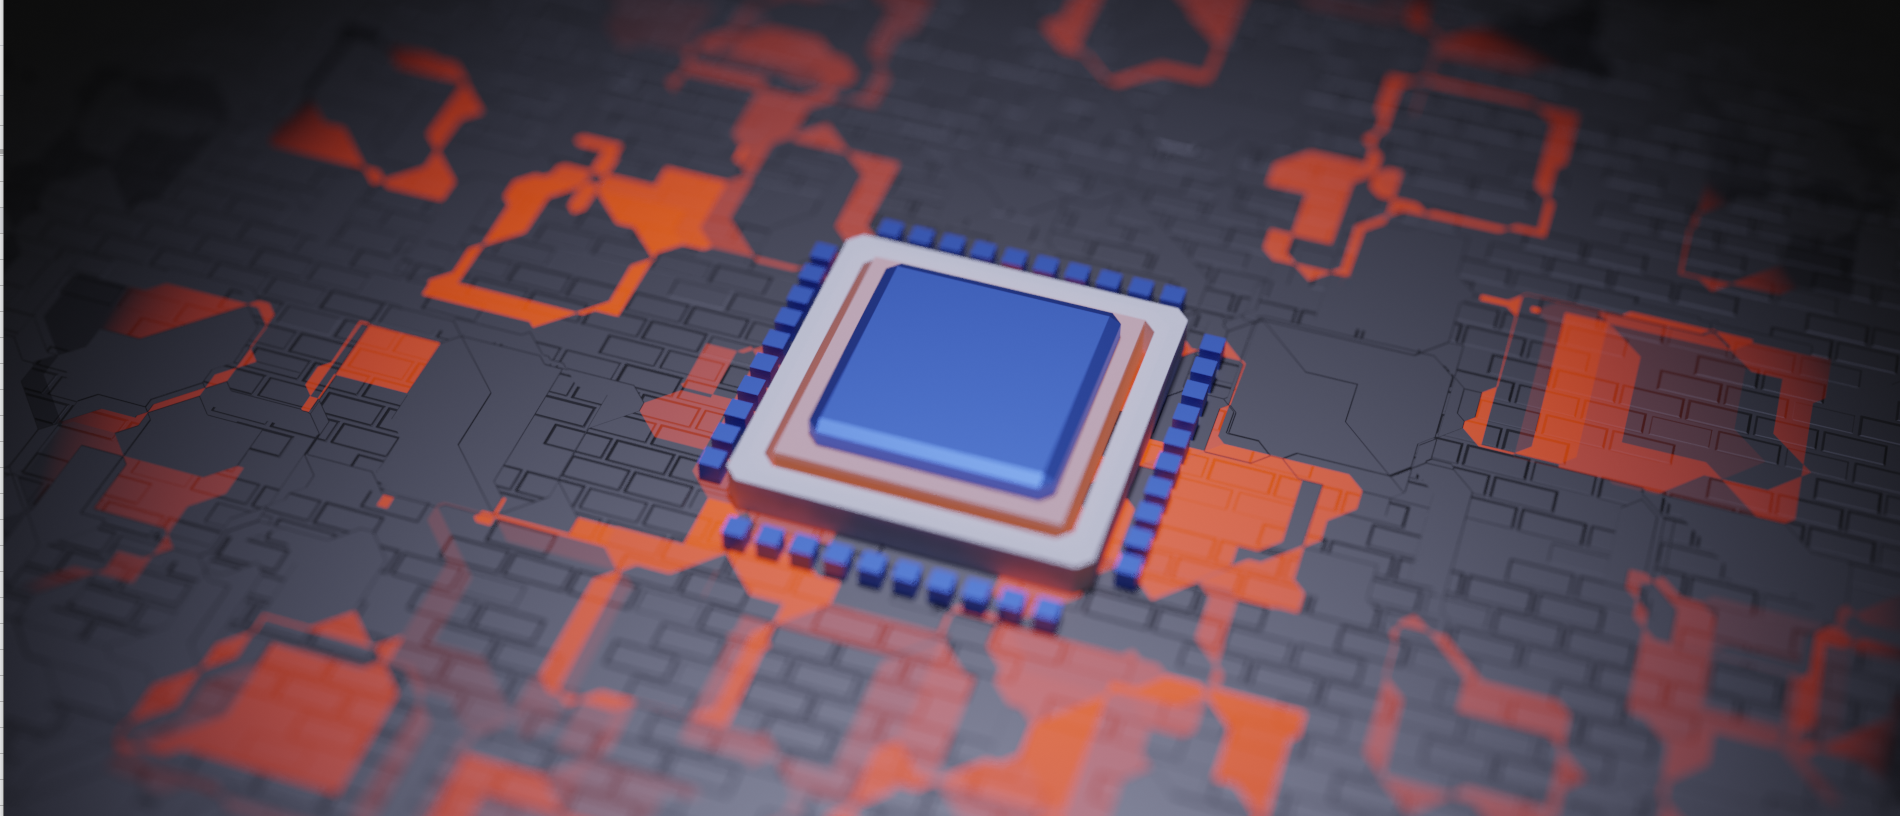
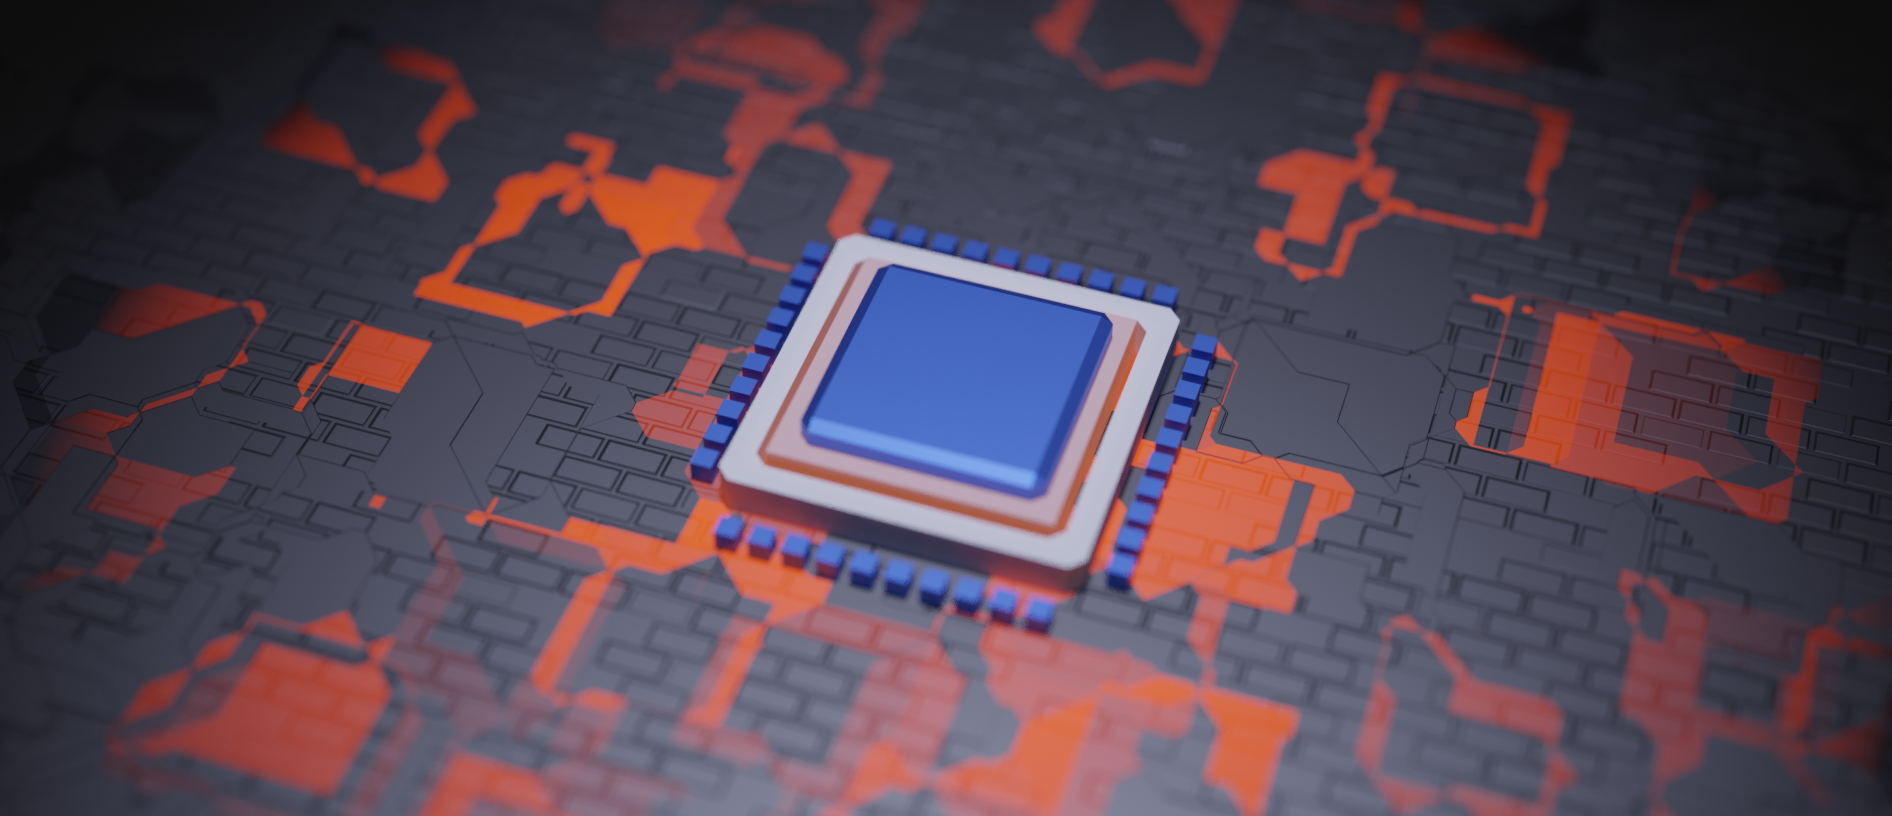
added pause button, more art

diff --git a/assets/main.js b/assets/main.js
@@ -1,25 +1,81 @@
 var style = getComputedStyle(document.body)
-var interacted = false
+var playing = false
+var firstclick = false
+
+function audio() {
+    if (playing === false) {
+        document.getElementById("audio").play();
+        playing = true;
+    }
+    else {
+        document.getElementById("audio").pause();
+        playing = false;
+    }
+}
 
 buttontext = document.getElementById("play-text")
+buttondiv = document.getElementById("play-div")
+
+async function wait(time) {
+    // await setTimeout(() => {}, time * 1000)
+    await new Promise(resolve => setTimeout(resolve, time * 1000))
+}
+async function play() {
+    audio()
+    if (firstclick === false) {
+        buttontext.classList.add("played")
+        button.classList.add("firstclick")
+        firstclick = true
+        await wait(1)
+    }
+    button = document.getElementById("play-button")
+    img = document.createElement("img");
+    img.id = "pause-button"
+    img.style.width = "64px"
+    img.style.height = "54px"
+    img.style["margin-top"] = "-30px"
+    img.src = "assets/media/pause.jpg"
+    img.addEventListener("click", function() {
+        pause()
+    })
+    button.classList.add("played")
+    // await wait(1)
+    img.classList.add("start")
+    buttondiv.appendChild(img)
+    buttondiv.removeChild(button)
+}
+
+async function pause() {
+    audio()
+    var button = document.getElementById("pause-button")
+    img = document.createElement("img");
+    img.id = "play-button"
+    img.style.width = "64px"
+    img.style.height = "64px"
+    img.style["margin-top"] = "-30px"
+    img.src = "assets/media/play.png"
+    img.addEventListener("click", function() {
+        play()
+    })
+    button.classList.add("played")
+    // await wait(1)
+    img.classList.add("start")
+    buttondiv.appendChild(img)
+    buttondiv.removeChild(button)
+}
 button = document.getElementById("play-button")
 button.addEventListener('click', function() {
-    if (interacted === false) {
-        document.getElementById("audio").play();
-        interacted = true;
-    }
-    buttontext.classList.add("played")
-    button.classList.add("played")
+    button.classList.add("firstclick")
+    play()
 })
 
 document.addEventListener("scroll", function(){
-    console.log(interacted)
     var scrollTop = document.documentElement.scrollTop
     var torus = document.getElementById("torus")
     var water = document.getElementById("water")
     var float = document.getElementById("float")
     var explode = document.getElementById("explode")
-    // console.log(scrollTop)
+    console.log(scrollTop)
     console.log(explode.style.opacity)
     console.log(torus.style.opacity)
     console.log(water.style.opacity)

diff --git a/art.html b/art.html
@@ -27,7 +27,9 @@
         <div id='subheader'>A portfolio of art I've worked on and created over the years.</div>
         <div id='attribution'>James Lian</div>
         <div id="play-text">Play Music:</div>
-        <img id="play-button" width='64px' height='64px' src="assets/media/play.png">
+        <div id="play-div">
+            <img id="play-button" width='64px' height='64px' src="assets/media/play.png">
+        </div>
         <img id="down-arrow" width='64px' height='64px' src="assets/media/down-arrow.png">
     </div>
     <div id="car-section">
@@ -49,8 +51,10 @@
         <img class="img-full" class="misc" src="assets/art/sci-fi enviro final.png" width=1200px height=675px>
         <img class="img-full" class="misc" src="assets/art/mountains.PNG" width=1200px height=714px>
         <img class="img-full" class="misc" src="assets/art/ball_and_tri.png" width=1200px height=675px>
-        <img class="img-full" class="misc" src="assets/art/logo.png" width=100% height=100%>
+        <img class="img-full" class="misc" src="assets/art/New Years Ball.png" width=49% height=50%>
+        <img class="img-full" class="misc" src="assets/art/logo.png" width=49% height=50%>
         <img class="img-full" class="misc" src="assets/art/reindeer.jpg" width=100% height=100%>
+        <img class="img-full" class="misc" src="assets/art/computer chip.PNG" width=100% height=100%>
     </div>
     <div id="footnote">James Lian. </div>
     <div id="subfootnote">Music by Melodysheep. Art by me.</div>

diff --git a/assets/css/art.css b/assets/css/art.css
@@ -68,31 +68,34 @@ body {
     font-family: "Fira Code";
     color: rgb(182, 85, 85);
     font-size: 35px;
+    margin-left: 60px;
 }
 
 #play-text {
     margin-top: 10px;
+    margin-left: 60px;
     font-family: "Fira Code";
     font-size: 20px;
     color: black;
 }
 
-#play-button {
+#play-button, #pause-button {
     display: inline-block;
-    margin-left: 10px;
+    margin-left: 60px;
     margin-top: 10px;
     margin-bottom: 250px;
 }
 
-#play-button:hover {
-    margin-left: 9px;
-    margin-top: 7px;
-    width: 70px;
-    height: 70px;
+#pause-button:active， #play-button:active {
+    animation: fadeout 1s forwards;
 }
 
 .played {
     animation: fadeout 1s forwards;
+}
+
+.start {
+    animation: fadeout 0.5s reverse backwards;
 }
 
 @keyframes fadeout {
@@ -105,9 +108,15 @@ body {
 }
 
 #down-arrow {
-    margin-left: -65px;
+    margin-top: calc(32em - 32px);
+    display: inline-block;
+    position: absolute;
     animation: movement 0.5s infinite alternate;
     -webkit-animation: movement 0.5s infinite alternate;
+}
+
+.firstclick {
+    animation: margin-movement 1s forwards, fadeout 1s forwards;
 }
 
 @keyframes movement {
@@ -116,6 +125,15 @@ body {
     }
     100% {
         top: 10px;
+    }
+}
+
+@keyframes margin-movement {
+    0% {
+        margin-top: 10px;
+    }
+    100% {
+        margin-top: -30px;
     }
 }
 
